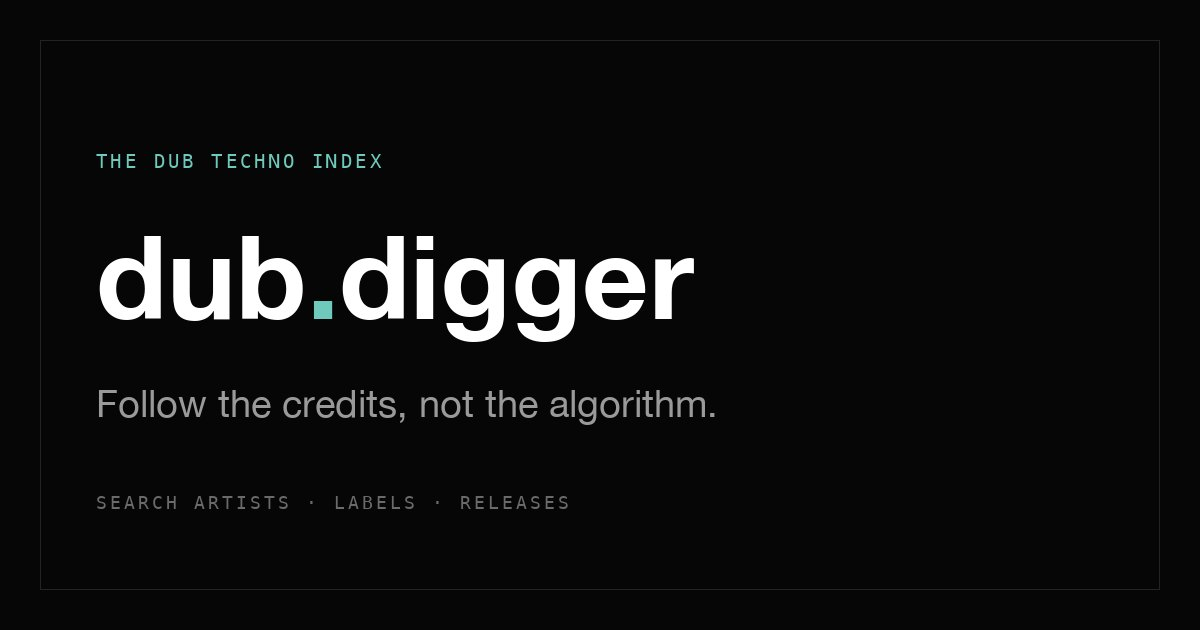
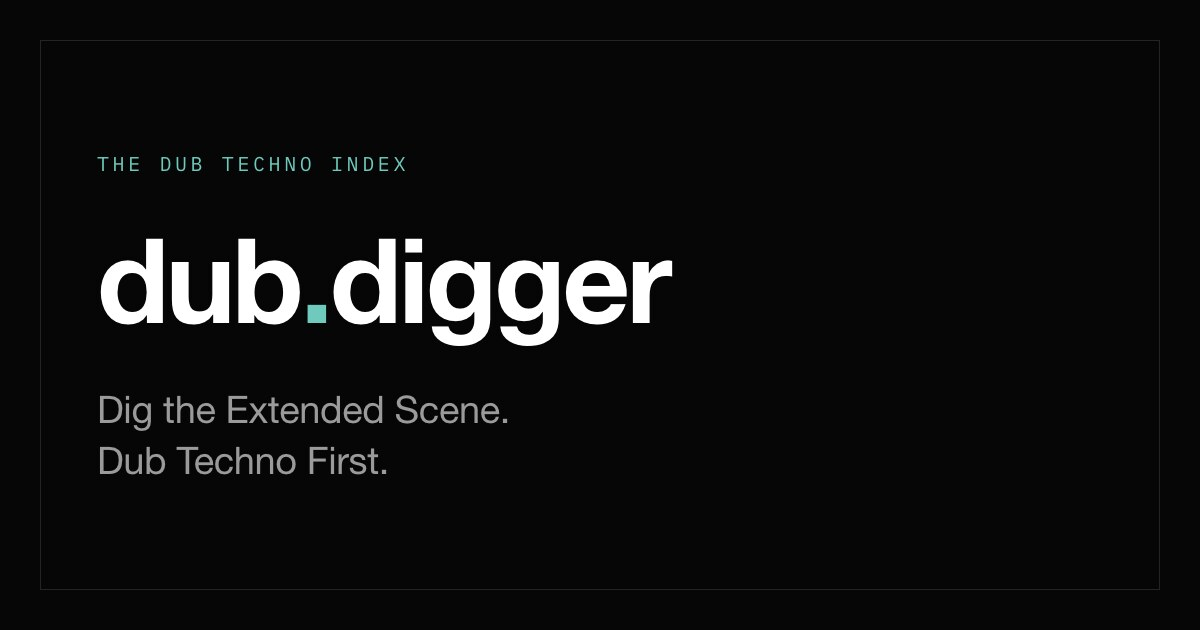
feat: the card says the claim the home page says
The shared link rendered "Follow the credits, not the algorithm" under a
line of search hints. Neither belonged there: the home page headline is
"Dig the Extended Scene. Dub Techno First.", so a share arriving with a
different claim was a second voice for the same product, and the hint
under a search field is not a thing a card can act on.

The card now has a source, web/scripts/og.html, drawn from the tokens and
rendered by headless Chrome. It was hand-made before, which is why the
copy drifted.

The old claim is gone from the meta description, the README and the
case study too, so there is one claim across the board.

diff --git a/web/scripts/og.html b/web/scripts/og.html
@@ -1,0 +1,85 @@
+<!doctype html>
+<!--
+  Source of public/og.jpg, the card a shared link renders. 1200x630, drawn from
+  the same tokens as the site. Regenerate after editing:
+
+    "/Applications/Google Chrome.app/Contents/MacOS/Google Chrome" \
+      --headless --disable-gpu --allow-file-access-from-files \
+      --screenshot=/tmp/og.png --window-size=1200,630 \
+      --default-background-color=00000000 web/scripts/og.html
+    magick /tmp/og.png -quality 88 web/public/og.jpg
+-->
+<meta charset="utf-8" />
+<title>dub.digger — social card</title>
+<style>
+  @font-face {
+    font-family: "IBM Plex Mono";
+    font-weight: 400;
+    font-style: normal;
+    src: url("../../node_modules/@fontsource/ibm-plex-mono/files/ibm-plex-mono-latin-400-normal.woff2") format("woff2");
+  }
+
+  :root {
+    --color-bg: #060606;
+    --color-ink-strong: #ffffff;
+    --color-ink-muted: #9a9a9a;
+    --color-accent: #6fcabd;
+    --color-hairline: rgb(255 255 255 / 0.12);
+  }
+
+  html,
+  body {
+    margin: 0;
+    padding: 0;
+  }
+
+  body {
+    width: 1200px;
+    height: 630px;
+    background: var(--color-bg);
+    font-family: "Helvetica Neue", Helvetica, Arial, sans-serif;
+    -webkit-font-smoothing: antialiased;
+  }
+
+  .card {
+    position: absolute;
+    inset: 40px;
+    border: 1px solid var(--color-hairline);
+    padding: 90px 56px 0;
+    box-sizing: border-box;
+  }
+
+  .eyebrow {
+    font-family: "IBM Plex Mono", ui-monospace, monospace;
+    font-size: 20px;
+    letter-spacing: 0.18em;
+    text-transform: uppercase;
+    color: var(--color-accent);
+  }
+
+  .wordmark {
+    margin: 44px 0 0;
+    font-size: 118px;
+    font-weight: 700;
+    letter-spacing: -0.03em;
+    line-height: 1;
+    color: var(--color-ink-strong);
+  }
+
+  .wordmark .dot {
+    color: var(--color-accent);
+  }
+
+  .tagline {
+    margin: 46px 0 0;
+    font-size: 38px;
+    line-height: 1.35;
+    letter-spacing: -0.01em;
+    color: var(--color-ink-muted);
+  }
+</style>
+<div class="card">
+  <p class="eyebrow">The Dub Techno Index</p>
+  <p class="wordmark">dub<span class="dot">.</span>digger</p>
+  <p class="tagline">Dig the Extended Scene.<br />Dub Techno First.</p>
+</div>

diff --git a/CLAUDE.md b/CLAUDE.md
@@ -216,7 +216,7 @@ Genuinely wanted for the product — visual reference matters for digging, and r
 
 When v1.1 is actually undertaken, decide consciously between the two paths above and update this section with the choice and its reasoning.
 
-**The rule is about Discogs imagery, and one image is not.** `public/og.jpg` is the card a shared link renders: 1200×630 of the site's own design, drawn from the tokens, holding no Discogs data and no photograph of anything. Simone admitted it on 2026-08-11 with the conflict on the table. It changes nothing architecturally, since it is a static file served like the stylesheet, and it is not a precedent for inline images: the thing "no images in v1" is protecting is the licence and the one-file server, and neither is touched here.
+**The rule is about Discogs imagery, and one image is not.** `public/og.jpg` is the card a shared link renders: 1200×630 of the site's own design, drawn from the tokens, holding no Discogs data and no photograph of anything. Its source is `web/scripts/og.html`, rendered by headless Chrome and converted with ImageMagick — the commands are in a comment at the top of that file, so the card is edited as markup rather than redrawn by hand. Simone admitted it on 2026-08-11 with the conflict on the table. It changes nothing architecturally, since it is a static file served like the stylesheet, and it is not a precedent for inline images: the thing "no images in v1" is protecting is the licence and the one-file server, and neither is touched here.
 
 ## Discoverability
 

diff --git a/case-study-credit-graph.md b/case-study-credit-graph.md
@@ -5,7 +5,7 @@
 
 ## The premise
 
-Every record is made by more people than the cover admits. A producer, a mixing engineer, a bassist who turns up on four other records you already love. That web of credits is how crate-diggers actually find music (follow the engineer, not the algorithm), but no consumer tool exposes it well. The data exists, exhaustively, in Discogs. It just isn't shaped for digging.
+Every record is made by more people than the cover admits. A producer, a mixing engineer, a bassist who turns up on four other records you already love. That web of credits is how crate-diggers actually find music, but no consumer tool exposes it well. The data exists, exhaustively, in Discogs. It just isn't shaped for digging.
 
 I set out to build the tool I wanted to use: **type an artist, see who they worked with and what labels they released on, then click any of those to keep going.** A map of scenes, drawn from credits.
 

diff --git a/README.md b/README.md
@@ -1,6 +1,6 @@
 # Dub Digger
 
-**Dig the extended scene. Dub Techno first. Following the credits, not the algorithm.**
+**Dig the Extended Scene. Dub Techno First.**
 
 Every record is connected to another, through the people who made it. A
 producer, a mixing engineer, a bassist who turns up on four other records you
